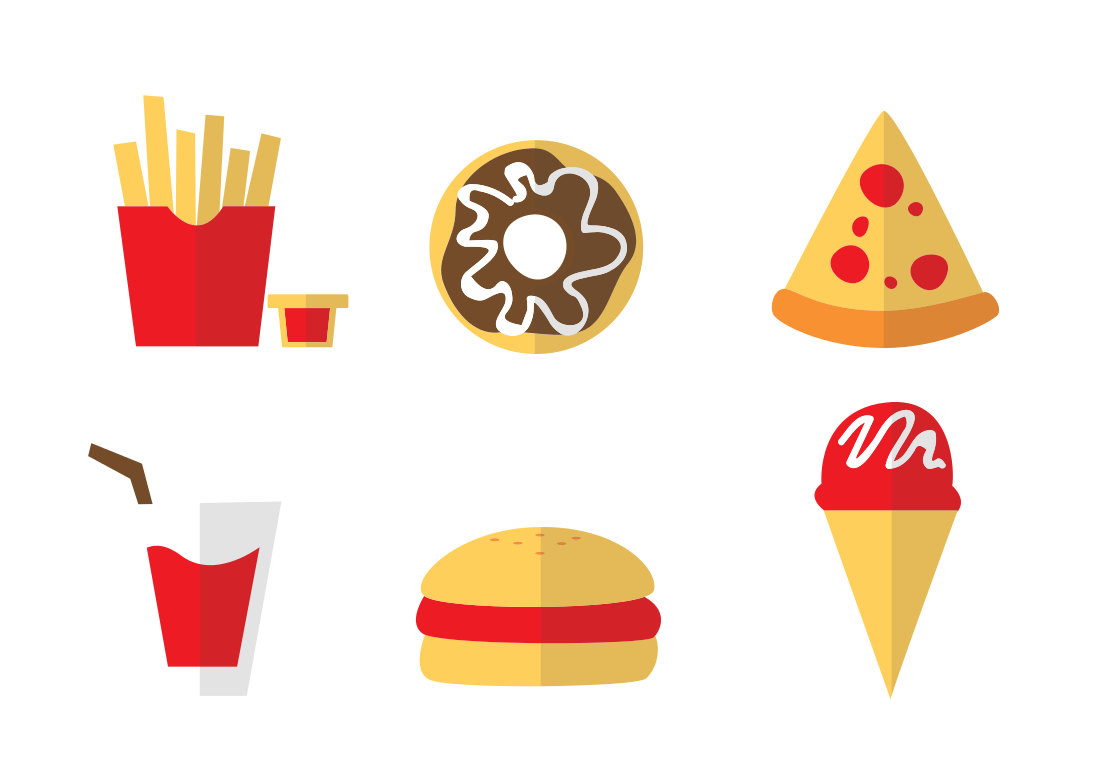
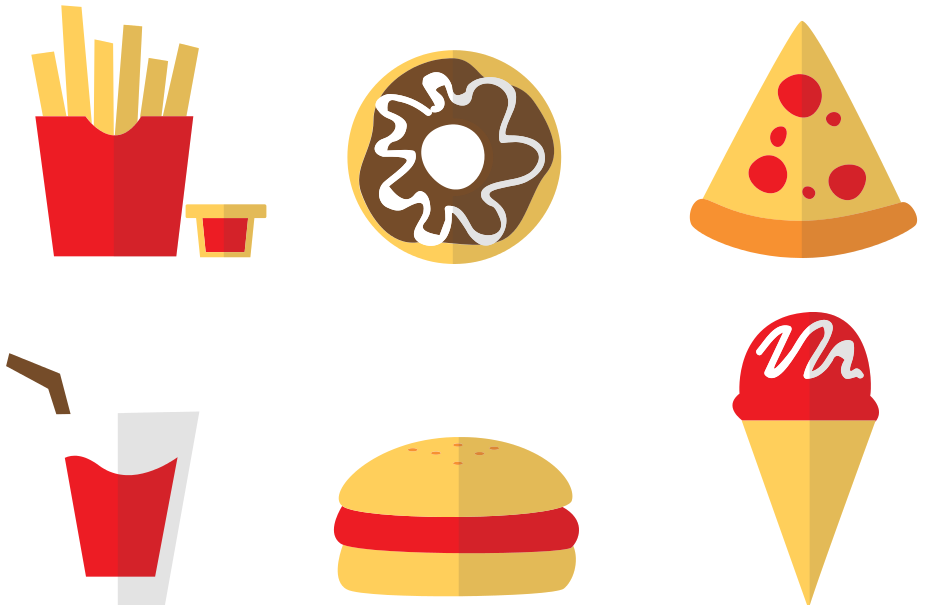
add conditionnal events as store plugins

diff --git a/src/store.js b/src/store.js
@@ -1,7 +1,16 @@
 import Vue from 'vue'
 import Vuex from 'vuex'
+import router from './router'
 
 Vue.use(Vuex)
+
+const bankrupcy = store => {
+  store.subscribe((mutation, state) => {
+    if (state.money <= 0 && router.currentRoute.params.step > 4) {
+      alert('You almost lost')
+    }
+  })
+}
 
 export default new Vuex.Store({
   state: {
@@ -39,7 +48,8 @@ export default new Vuex.Store({
       state.reputationPoints += payload
     }
   },
-  actions: {
-
-  }
+  actions: {},
+  plugins: [
+    bankrupcy
+  ]
 })

diff --git a/src/views/Game.vue b/src/views/Game.vue
@@ -72,6 +72,14 @@ export default {
           illustration: `${this.$store.state.difficulty}image.png`
         }
       }
+
+      if (this.step === 4) {
+        return {
+          title: '',
+          illustration: `foodicons.png`
+        }
+      }
+
       if (this.step >= 33) {
         return {
           title: 'Développer votre entreprise',
